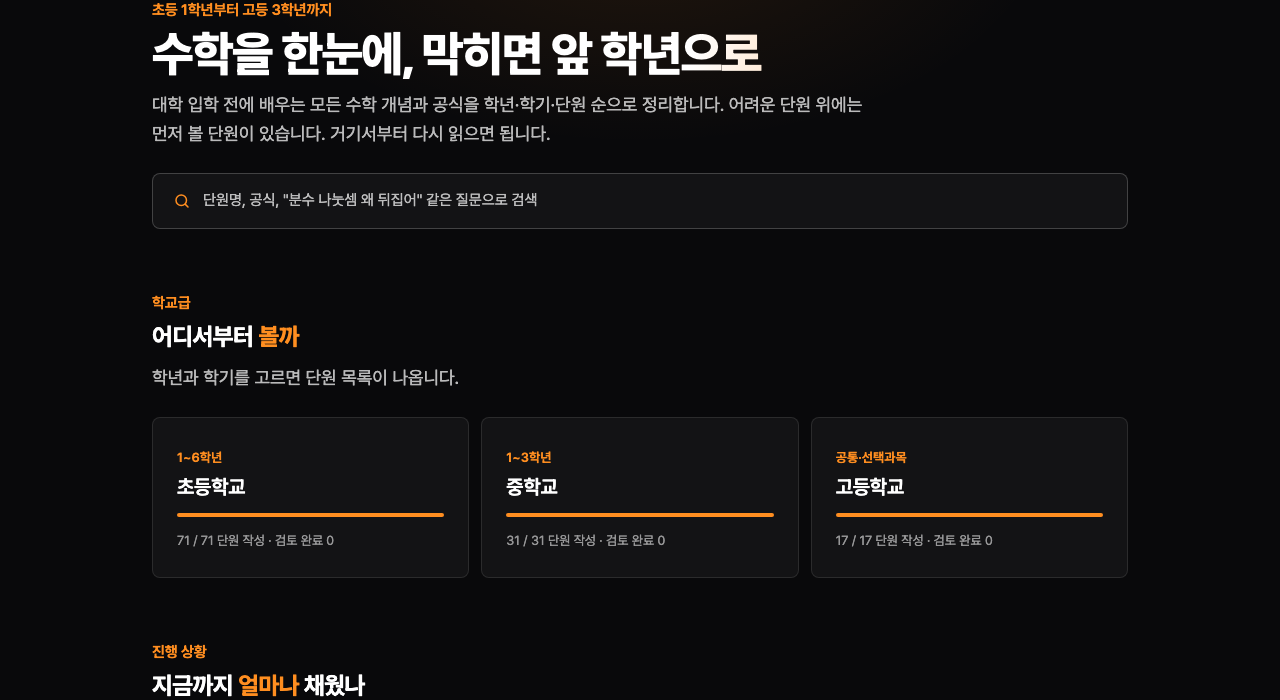
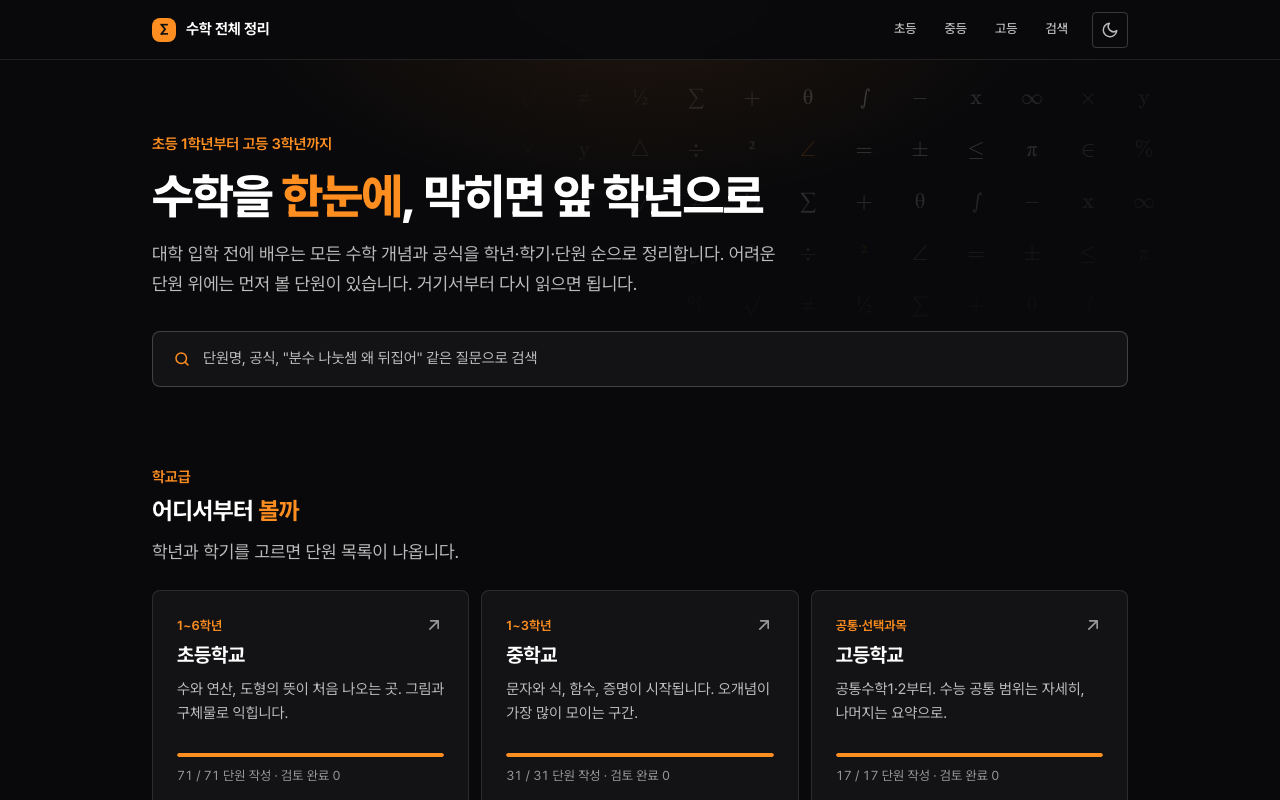
docs: README 정리 및 최신화 — 요약 표·시작하기·구조 정돈, 긴 내용은 docs/로 분리

diff --git a/README.md b/README.md
@@ -8,12 +8,29 @@
 
 <picture>
   <source media="(prefers-color-scheme: light)" srcset="docs/screenshots/home-light.png">
-  <img src="docs/screenshots/home-dark.png" alt="홈 화면. '수학을 한눈에, 막히면 앞 학년으로'라는 제목 아래 검색창과 초등·중등·고등 카드가 있다." width="860">
+  <img src="docs/screenshots/home-dark.png" alt="홈 화면. '수학을 한눈에, 막히면 앞 학년으로' 제목 뒤로 수학 기호 판이 깔려 있고, 그 아래 검색창과 초등·중등·고등 카드가 있다." width="860">
 </picture>
 
 </div>
 
----
+| 항목 | 내용 |
+| --- | --- |
+| 기간 | 2026.10 ~ (모션 업그레이드 2026-11-04) |
+| 역할 | 개인 프로젝트 |
+| 기술 스택 | Astro 7 · Markdown + frontmatter · KaTeX · Pagefind · Motion · Anime.js |
+| 배포 | GitHub Pages (`main` 푸시 시 validate → build → 배포). 공개 주소 `https://seung1won-dot.github.io/K12-math/`는 준비 중 |
+| 상태 | 119단원 초안 완료 · 검토 완료 0 |
+| 라이선스 | 콘텐츠 CC BY-NC-SA 4.0, 코드 MIT (확정 전) |
+
+## 목차
+
+- [이 사이트는 무엇인가](#이-사이트는-무엇인가)
+- [이런 분께 도움이 됩니다](#이런-분께-도움이-됩니다)
+- [주요 기능](#주요-기능)
+- [지금 어디까지 왔나](#지금-어디까지-왔나)
+- [시작하기](#시작하기)
+- [프로젝트 구조](#프로젝트-구조)
+- [더 읽을거리](#더-읽을거리)
 
 ## 이 사이트는 무엇인가
 
@@ -21,7 +38,7 @@
 
 이 사이트는 대학 입학 전에 배우는 수학을 **학년·학기·단원 순으로 한곳에 모으고, 단원끼리 "먼저 볼 단원"과 "다음 단원"으로 이어 둔 것**입니다. 막힌 단원에서 출발해 링크를 따라 거꾸로 내려가면, 어디서부터 다시 읽어야 하는지 스스로 찾을 수 있습니다.
 
-```
+```text
 고1  이차방정식과 이차함수
  └─ 중3  이차함수
      └─ 중2  일차함수와 그래프
@@ -35,36 +52,26 @@
 
 | 누가 | 어떻게 쓰면 좋은가 |
 | --- | --- |
-| **수학이 막힌 중·고등학생** | 지금 배우는 단원을 열고, 맨 위 "이 단원이 어려우면 먼저 볼 단원"부터 거슬러 읽습니다. 문제집을 더 푸는 것보다 빠진 개념을 메우는 게 먼저일 때 씁니다. |
-| **개념을 외우기만 하고 이유를 모르는 학생** | 단원마다 있는 "왜 성립하는가"에서 공식이 어디서 나왔는지 확인합니다. 외운 공식을 잊어도 다시 만들 수 있게 하는 것이 목표입니다. |
-| **자녀 공부를 봐 주는 학부모** | 아이가 몇 학년 어느 단원을 배우는지, 그 단원이 어떤 앞 단원 위에 서 있는지 한 화면에서 볼 수 있습니다. |
-| **과외·학원 강사, 교사** | 학생이 자주 하는 실수를 "왜 틀리는가 / 어떻게 바로잡는가" 쌍으로 정리해 두었습니다. 진단과 보충 설명의 출발점으로 쓸 수 있습니다. |
-| **다시 공부하는 성인, 검정고시 준비생** | 초등부터 고등까지 한 사이트 안에서 순서대로 읽을 수 있고, 학생이 실제로 묻는 말투("분수 나눗셈 왜 뒤집어")로도 검색됩니다. |
+| **수학이 막힌 중·고등학생** | 지금 배우는 단원을 열고, 맨 위 "이 단원이 어려우면 먼저 볼 단원"부터 거슬러 읽습니다. |
+| **공식을 외우기만 하고 이유를 모르는 학생** | 단원마다 있는 "왜 성립하는가"에서 공식이 어디서 나왔는지 확인합니다. |
+| **자녀 공부를 봐 주는 학부모** | 아이가 배우는 단원이 어떤 앞 단원 위에 서 있는지 한 화면에서 봅니다. |
+| **과외·학원 강사, 교사** | "왜 틀리는가 / 어떻게 바로잡는가" 쌍으로 정리한 오개념을 진단과 보충 설명에 씁니다. |
+| **다시 공부하는 성인, 검정고시 준비생** | 초등부터 고등까지 순서대로 읽고, "분수 나눗셈 왜 뒤집어" 같은 말투로도 검색합니다. |
 
-이 사이트는 교과서나 문제집을 대신하지 않습니다. 교과서로 배운 내용이 흐릿할 때 **개념을 다시 세우는 참고서**로 쓰는 것을 생각하고 만들었습니다.
+교과서나 문제집을 대신하지 않습니다. 배운 내용이 흐릿할 때 **개념을 다시 세우는 참고서**로 쓰도록 만들었습니다.
 
-## 단원 하나는 이렇게 생겼습니다
+## 주요 기능
 
-<img src="docs/screenshots/unit-dark.png" alt="'이차방정식과 이차함수' 단원 화면. 제목 아래 먼저 볼 단원 상자에 '이차방정식(공통수학1)'과 '이차함수(중학교 3학년 1학기)'가 있고, 그 아래 핵심 개념 본문이 수식과 함께 이어진다." width="860">
+<img src="docs/screenshots/unit-dark.png" alt="'이차방정식과 이차함수' 단원 화면. 제목 아래 먼저 볼 단원 상자에 '이차방정식(고등학교 공통수학1)'과 '이차함수(중학교 3학년 1학기)'가 있고, 오른쪽에 현재 절을 표시하는 목차가 있다." width="860">
 
-모든 단원은 같은 순서를 따릅니다. 어느 단원을 열어도 어디에 무엇이 있는지 바로 알 수 있게 하기 위해서입니다.
-
-| 순서 | 항목 | 담는 것 |
-| --- | --- | --- |
-| 1 | **핵심 개념** | 한 줄 요약, 정의와 직관, 생활 속 예 |
-| 2 | **공식·정리** | 공식과 **성립 조건**(정의역, 부호, 단위). 조건 없는 공식은 쓰지 않습니다 |
-| 3 | **왜 성립하는가** | 유도나 증명. 학년에 맞는 방식으로 |
-| 4 | **대표 예제** | (기본)부터 (심화)까지 예제 5개와 풀이 전략, 정답을 접어 둔 스스로 확인 3문제 |
-| 5 | **자주 하는 실수와 오개념** | 4~5개. 틀린 생각마다 "왜 틀리는가"와 "어떻게 바로잡는가"를 함께 |
-| 6 | **앞뒤 학년 연계** | 먼저 볼 단원, 다음 단원 (단원 위쪽 상자와 링크로 표시) |
-
-그 밖의 기능:
-
-- **그림**: 함수 그래프, 도형, 수직선, 수 모형·분수 막대 같은 그림이 단원마다 2~4개(전체 405개) 들어 있습니다. 모두 SVG라 확대해도 깨지지 않고, 다크·라이트 모드 색을 따라갑니다. 작성법은 [`docs/figures.md`](docs/figures.md).
-
-- **검색**: 단원명, 공식, 학생 말투의 질문으로 찾습니다. 서버 없이 브라우저 안에서 동작합니다(Pagefind).
-- **수식**: KaTeX로 그려서 교과서와 같은 모양으로 보입니다.
-- **다크 / 라이트 모드**: 오른쪽 위 버튼으로 바꾸며, 선택이 기억됩니다.
+- **같은 틀의 단원** — 모든 단원이 핵심 개념 → 공식·정리(성립 조건 포함) → 왜 성립하는가 → 대표 예제 5개와 스스로 확인 3문제 → 자주 하는 실수와 오개념 4~5개 → 앞뒤 학년 연계 순서입니다.
+- **앞뒤 학년 연결** — 단원 위쪽 상자에 "먼저 볼 단원", 아래에 "다음 단원" 링크가 있습니다.
+- **그림** — 함수 그래프, 도형, 수직선, 수 모형·분수 막대 등 405개. 모두 SVG라 확대해도 깨지지 않고 다크·라이트 색을 따라갑니다.
+- **수식** — KaTeX로 그려 교과서와 같은 모양으로 보입니다.
+- **검색** — 단원명, 공식, 학생 말투의 질문으로 찾습니다. 서버 없이 브라우저 안에서 동작합니다(Pagefind).
+- **읽기 도우미** — 단원 페이지에 읽기 진행 막대와 현재 절을 표시하는 옆 목차(넓은 화면)가 있습니다.
+- **절제된 모션** — 홈 제목이 한 글자씩 떠오르고 뒤 수학 기호 판이 퍼지며, 카드·학년별 단원 수 차트가 화면에 들어올 때 한 번 등장합니다. 단원 본문·수식·그림은 움직이지 않고, "동작 줄이기" 설정을 켜면 모두 꺼집니다.
+- **다크 / 라이트 모드** — 오른쪽 위 버튼으로 바꾸며, 선택이 기억됩니다.
 
 ## 지금 어디까지 왔나
 
@@ -75,118 +82,51 @@
 | 고등학교 | 공통수학1·2 | 17 | 0 |
 | **합계** | | **119** | **0** |
 
-- 모든 단원이 아직 **초안**입니다. 사람이 검토하지 않았으므로 오류가 있을 수 있습니다. 검토할 항목은 [`docs/review-notes.md`](docs/review-notes.md)에 단원별로 모아 두었습니다.
+- 모든 단원이 아직 **초안**입니다. 사람이 검토하지 않았으므로 오류가 있을 수 있습니다. 검토할 항목은 [`docs/review-notes.md`](docs/review-notes.md)에 모아 두었습니다.
 - 고등 선택과목(대수, 미적분Ⅰ, 확률과 통계 등)은 아직 시작하지 않았습니다.
 - 초등 단원 구성은 국정 교과서 기준이라 2022 개정 검정 교과서의 단원 이름과 다를 수 있습니다.
-- 사이트 공개 주소는 GitHub Pages 배포 후 `https://seung1won-dot.github.io/K12-math/`가 됩니다(준비 중).
 
-## 만드는 원칙
-
-1. **이유 없는 공식은 없다.** 공식에는 유도와 조건이 같이 있어야 합니다.
-2. **오개념은 정정까지.** "이렇게 하면 틀린다"에서 멈추지 않고 바르게 생각하는 법을 같이 씁니다.
-3. **단원은 혼자 있지 않다.** 검토 완료 단원은 먼저 볼 단원과 다음 단원이 반드시 하나 이상 있어야 하며, 스크립트가 이를 검사합니다.
-4. **베끼지 않는다.** 교과서와 참고서의 문장·문제를 옮기지 않고, 설명·예제·그림은 직접 만듭니다.
-
----
-
-## 직접 실행하기
+## 시작하기
 
 Node.js 22.12 이상이 필요합니다.
 
 ```bash
 git clone https://github.com/Seung1won-dot/K12-math.git
 cd K12-math
-npm install
-npm run build && npm run preview   # http://localhost:4321/K12-math/
 ```
+
+```bash
+npm install
+```
+
+```bash
+npm run build && npm run preview
+```
+
+브라우저에서 <http://localhost:4321/K12-math/> 를 엽니다. 검색은 빌드 결과(`preview`)에서만 동작합니다.
 
 | 명령 | 설명 |
 | --- | --- |
-| `npm run dev` | 개발 서버 (검색은 빌드 후 `preview`에서만 동작) |
+| `npm run dev` | 개발 서버 (검색 제외) |
 | `npm run build` | 정적 빌드 + Pagefind 검색 색인 생성 → `dist/` |
 | `npm run preview` | 빌드 결과 미리보기 |
 | `npm run stubs` | `data/units.json`에 있는데 파일이 없는 단원을 `status: todo` 빈 틀로 생성 |
 | `npm run validate` | 단원 파일 전수 검사 (항목 순서, 빈 항목, 연계 ID 실존, status 조건, 수식 블록 형식, 그림 오류) |
 | `npm run check` | validate + build. CI와 동일 |
 
-기술 스택: Astro 7 · Markdown + frontmatter · KaTeX · Pagefind · GitHub Pages(`main` 푸시 시 validate → build → 배포)
+## 프로젝트 구조
 
-<details>
-<summary><b>저장소 구조</b></summary>
-
-```
-content/            단원 Markdown. content/{학교급}/{학년-학기 | 과목코드}/{id}.md
-  elem/ mid/ high/
-data/units.json     단원 뼈대(ID·제목·키워드). 여기서 빈 틀을 생성
-scripts/            gen-stubs.ts, validate.ts (Node 22+ 로 .ts 직접 실행)
-src/
-  content.config.ts frontmatter 스키마 (zod)
-  lib/units.ts      ID 파싱, 진행률, URL 헬퍼
-  figures/          그림 블록(plot·numberline·svg) → SVG 변환
-  layouts/ pages/ components/ styles/
-public/             favicon, SVG 그림
-docs/               검토 목록, 그림 작성법, README 스크린샷
-.github/workflows/  main 푸시 시 validate → build → Pages 배포
+```text
+content/          단원 Markdown — content/{elem|mid|high}/{학년-학기 | 과목코드}/{id}.md
+data/units.json   단원 뼈대(ID·제목·키워드). 여기서 빈 틀을 생성
+scripts/          빈 틀 생성 · 단원 검사 스크립트
+src/              Astro 페이지·레이아웃·컴포넌트, 그림 블록 → SVG 변환, 모션 스크립트, 스타일
+docs/             작성 안내 · 디자인/모션 규칙 · 그림 작성법 · 검토 목록 · 스크린샷
 ```
 
-</details>
+## 더 읽을거리
 
-<details>
-<summary><b>단원 ID 규칙</b></summary>
-
-`학교급-학년(과목)-학기-순번`. 한 번 정하면 바꾸지 않습니다(링크가 깨집니다).
-
-- 초·중: `elem-3-1-02`, `mid-2-2-05`
-- 고등: `high-c1-05` (공통수학1), `high-c2-..` (공통수학2), `high-alg-..` (대수), `high-cal1-..` (미적분Ⅰ), `high-stat-..` (확률과 통계),
-  `high-geo-..` (기하), `high-cal2-..` (미적분Ⅱ), `high-econ-..`, `high-ai-..`, `high-job-..`, `high-cul-..`, `high-pstat-..`, `high-inq-..`
-
-파일 위치는 ID로 정해집니다: `mid-2-2-05` → `content/mid/2-2/mid-2-2-05.md`.
-
-</details>
-
-<details>
-<summary><b>단원 템플릿과 작성 규칙</b></summary>
-
-frontmatter 다음에 아래 항목을 **이 순서로** 둡니다. ⑥ 연계의 링크는 frontmatter `prerequisites` / `next`로 관리하고, 본문 ⑥은 설명이 필요할 때만 씁니다.
-
-```markdown
----
-id: mid-2-2-05
-title: 피타고라스 정리
-level: 중학교          # 초등학교 | 중학교 | 고등학교
-grade: 2학년           # 고등은 과목명 (공통수학1 등)
-term: 2학기            # 고등은 생략
-area: 도형과 측정      # 초·중: 수와 연산 | 변화와 관계 | 도형과 측정 | 자료와 가능성. 고등: 대단원명
-keywords: [a²+b²=c², 직각삼각형, "피타고라스 정리 왜 성립해"]   # 학생이 검색할 말투도 넣는다
-prerequisites: [mid-2-2-01]   # 선수 단원 ID. reviewed 이상은 1개 이상 필수
-next: [mid-3-1-01]            # 후속 단원 ID. reviewed 이상은 1개 이상 필수
-status: draft                 # todo | draft | reviewed | published
-reviewedAt: 2026-10-11        # 선택
-note: 2015 개정 대비 이동 사항 등  # 선택
----
-
-## 핵심 개념
-## 공식·정리
-## 왜 성립하는가
-## 대표 예제
-## 자주 하는 실수와 오개념
-## 앞뒤 학년 연계   (선택)
-```
-
-- 수식은 `$...$`, `$$...$$` (KaTeX). `$$`는 수식과 다른 줄에 둡니다(validate가 검사).
-- 공식에는 조건(정의역·부호·단위)을 반드시 같이 적습니다.
-- 오개념은 "왜 틀리는가"와 "어떻게 바로잡는가"를 쌍으로 씁니다.
-- 그림은 `public/` 아래 SVG. 대체 텍스트 필수.
-
-**작성 순서**
-
-1. `data/units.json`에 단원 추가 → `npm run stubs`
-2. 한 학기씩 작성하고 `status: draft`
-3. [`docs/review-notes.md`](docs/review-notes.md)의 해당 항목과 계획서 체크리스트로 검토한 뒤 `status: reviewed`, `reviewedAt` 기록
-4. `npm run check` 통과 확인 후 푸시 → 자동 배포
-
-</details>
-
-## 라이선스
-
-콘텐츠 CC BY-NC-SA 4.0, 코드 MIT (확정 전).
+- [단원 작성 안내](docs/authoring.md) — 만드는 원칙, 단원 ID 규칙, 단원 템플릿, 작성 순서, 상세 저장소 구조
+- [디자인 · 움직임 규칙](docs/design.md) — 조판, 모션을 쓰는 곳과 쓰지 않는 곳, 동작 줄이기 대응
+- [그림 작성법](docs/figures.md) — `plot` · `numberline` · `svg` 블록
+- [검토 목록](docs/review-notes.md) — 단원별로 확인할 항목

diff --git a/docs/authoring.md b/docs/authoring.md
@@ -1,0 +1,78 @@
+# 단원 작성 안내
+
+[README](../README.md)에서 옮겨 온 단원 작성 규칙입니다. 그림 블록 작성법은 [figures.md](figures.md), 검토할 항목은 [review-notes.md](review-notes.md)에 있습니다.
+
+## 만드는 원칙
+
+1. **이유 없는 공식은 없다.** 공식에는 유도와 조건이 같이 있어야 합니다.
+2. **오개념은 정정까지.** "이렇게 하면 틀린다"에서 멈추지 않고 바르게 생각하는 법을 같이 씁니다.
+3. **단원은 혼자 있지 않다.** 검토 완료 단원은 먼저 볼 단원과 다음 단원이 반드시 하나 이상 있어야 하며, 스크립트가 이를 검사합니다.
+4. **베끼지 않는다.** 교과서와 참고서의 문장·문제를 옮기지 않고, 설명·예제·그림은 직접 만듭니다.
+
+## 단원 ID 규칙
+
+`학교급-학년(과목)-학기-순번`. 한 번 정하면 바꾸지 않습니다(링크가 깨집니다).
+
+- 초·중: `elem-3-1-02`, `mid-2-2-05`
+- 고등: `high-c1-05` (공통수학1), `high-c2-..` (공통수학2), `high-alg-..` (대수), `high-cal1-..` (미적분Ⅰ), `high-stat-..` (확률과 통계),
+  `high-geo-..` (기하), `high-cal2-..` (미적분Ⅱ), `high-econ-..`, `high-ai-..`, `high-job-..`, `high-cul-..`, `high-pstat-..`, `high-inq-..`
+
+파일 위치는 ID로 정해집니다: `mid-2-2-05` → `content/mid/2-2/mid-2-2-05.md`.
+
+## 단원 템플릿
+
+frontmatter 다음에 아래 항목을 **이 순서로** 둡니다. ⑥ 연계의 링크는 frontmatter `prerequisites` / `next`로 관리하고, 본문 ⑥은 설명이 필요할 때만 씁니다.
+
+```markdown
+---
+id: mid-2-2-05
+title: 피타고라스 정리
+level: 중학교          # 초등학교 | 중학교 | 고등학교
+grade: 2학년           # 고등은 과목명 (공통수학1 등)
+term: 2학기            # 고등은 생략
+area: 도형과 측정      # 초·중: 수와 연산 | 변화와 관계 | 도형과 측정 | 자료와 가능성. 고등: 대단원명
+keywords: [a²+b²=c², 직각삼각형, "피타고라스 정리 왜 성립해"]   # 학생이 검색할 말투도 넣는다
+prerequisites: [mid-2-2-01]   # 선수 단원 ID. reviewed 이상은 1개 이상 필수
+next: [mid-3-1-01]            # 후속 단원 ID. reviewed 이상은 1개 이상 필수
+status: draft                 # todo | draft | reviewed | published
+reviewedAt: 2026-10-11        # 선택
+note: 2015 개정 대비 이동 사항 등  # 선택
+---
+
+## 핵심 개념
+## 공식·정리
+## 왜 성립하는가
+## 대표 예제
+## 자주 하는 실수와 오개념
+## 앞뒤 학년 연계   (선택)
+```
+
+- 수식은 `$...$`, `$$...$$` (KaTeX). `$$`는 수식과 다른 줄에 둡니다(validate가 검사).
+- 공식에는 조건(정의역·부호·단위)을 반드시 같이 적습니다.
+- 오개념은 "왜 틀리는가"와 "어떻게 바로잡는가"를 쌍으로 씁니다.
+- 그림은 본문 안의 `plot`·`numberline`·`svg` 코드 블록으로 그립니다. 그림마다 무엇을 보면 되는지 설명 한 줄이 필수입니다([figures.md](figures.md)).
+
+## 작성 순서
+
+1. `data/units.json`에 단원 추가 → `npm run stubs`
+2. 한 학기씩 작성하고 `status: draft`
+3. [`docs/review-notes.md`](review-notes.md)의 해당 항목과 계획서 체크리스트로 검토한 뒤 `status: reviewed`, `reviewedAt` 기록
+4. `npm run check` 통과 확인 후 푸시 → 자동 배포
+
+## 저장소 구조 (상세)
+
+```text
+content/            단원 Markdown. content/{학교급}/{학년-학기 | 과목코드}/{id}.md
+  elem/ mid/ high/
+data/units.json     단원 뼈대(ID·제목·키워드). 여기서 빈 틀을 생성
+scripts/            gen-stubs.ts, validate.ts (Node 22+ 로 .ts 직접 실행)
+src/
+  content.config.ts frontmatter 스키마 (zod)
+  lib/units.ts      ID 파싱, 진행률, URL 헬퍼
+  figures/          그림 블록(plot·numberline·svg) → SVG 변환
+  scripts/motion.ts 카드·목록 등장 모션 (Motion). 홈 히어로의 Anime.js는 pages/index.astro
+  layouts/ pages/ components/ styles/
+public/             favicon
+docs/               작성 안내, 디자인·모션 규칙, 그림 작성법, 검토 목록, README 스크린샷
+.github/workflows/  main 푸시 시 validate → build → Pages 배포
+```
